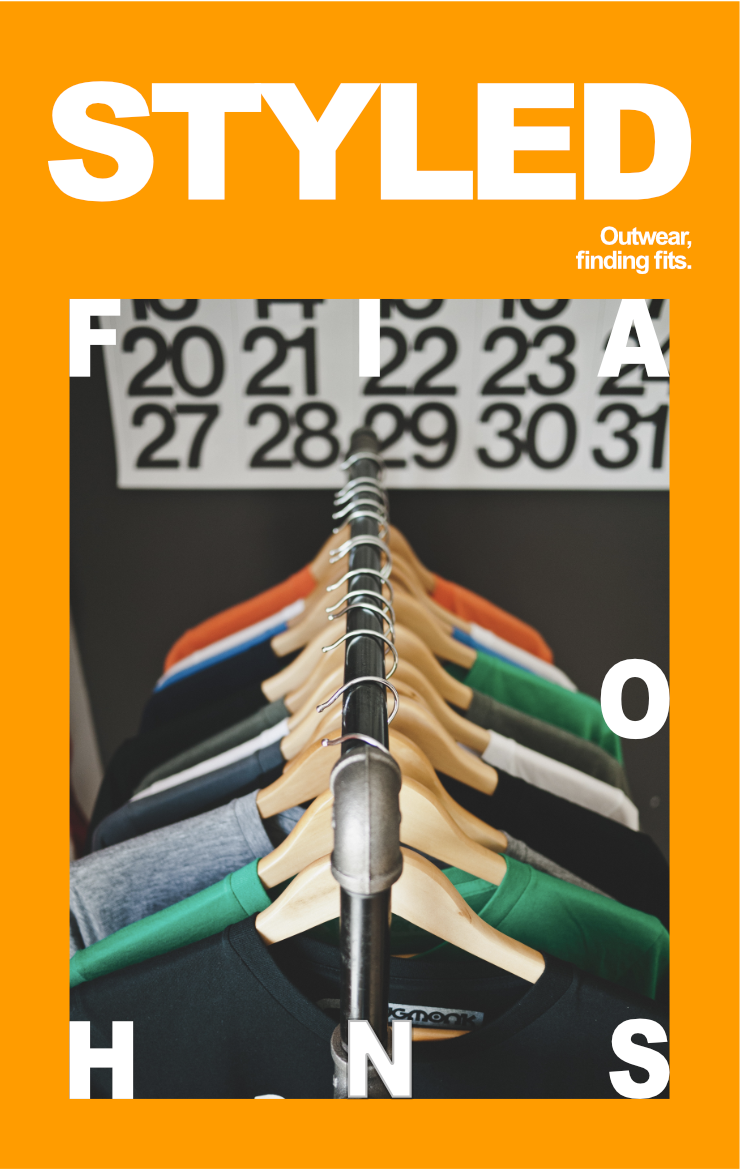
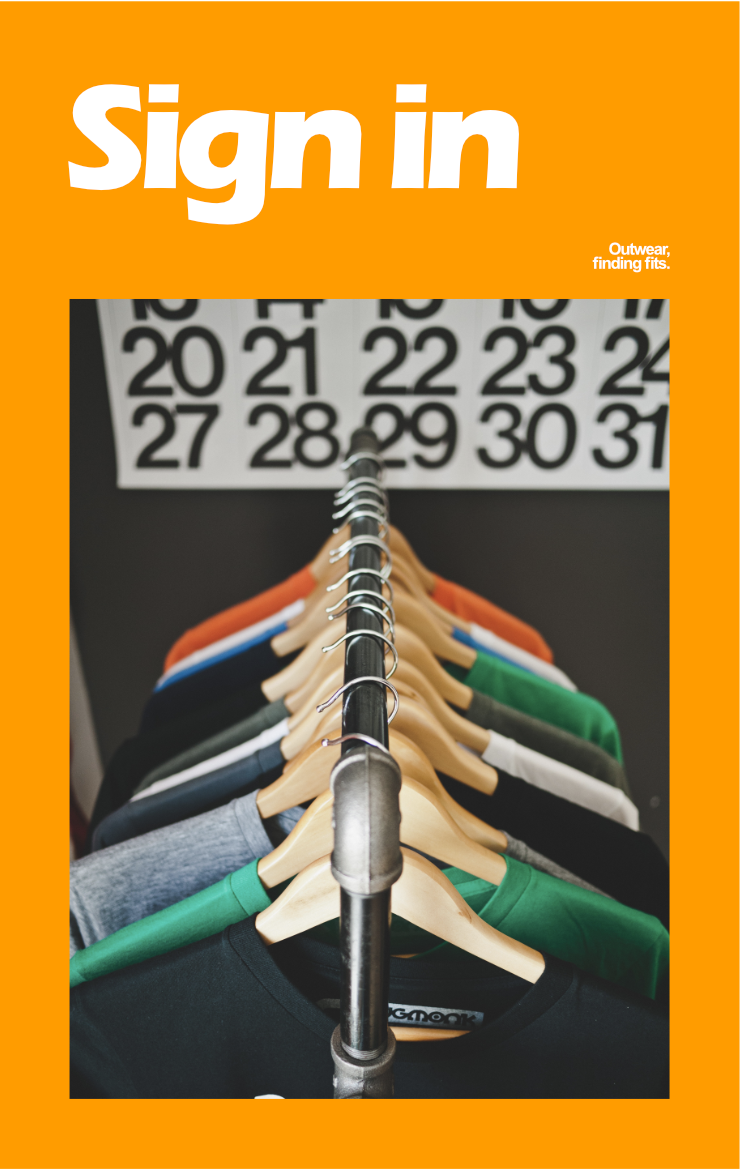
navigation - 6 [login modal]

diff --git a/src/app/modals/login-dialog/login-dialog.component.scss b/src/app/modals/login-dialog/login-dialog.component.scss
@@ -1,0 +1,73 @@
+// Mobile
+@media only screen and (min-width: 320px) {}
+// Tablet 
+@media only screen and (min-width: 768px) {}
+// Desktop 
+@media only screen and (min-width: 1024px) {}
+// Desktop XL
+@media only screen and (min-width: 1280px) {}
+
+// Modal form container 
+.form__container {
+    display: inline-flex;
+    align-items: center;
+    width: 100%;
+    height: 100%;
+    position: relative;
+    // Modal form image container
+    .form__image{
+        flex: 1;
+        display: flex;
+        align-items: center;
+        padding-left: 20px;
+        // Modal form image element
+        &__field {
+        width: 200px;
+        }
+    }
+    // Modal form content
+    .form__field {
+        flex: 2;
+        padding: 0 20px;
+        // Form close button 
+        &__close {
+            position: absolute;
+            top: 0;
+            right: 0;
+            border: none;
+            padding: 10px;
+            text-align: right;
+        }
+        // Register text 
+        &__register {
+            font-size: 16px; 
+            margin-bottom: 20px;
+        }
+        // Form content wrapper  
+        .mat-dialog-content {
+            overflow: hidden;
+        }
+        // Form inputs 
+        &__input {
+            width: 100%;
+            display: block;
+        }
+        // Action buttons wrappers
+        &__actions {
+            // Forgotten password button link
+            a {
+                display: inline-flex;
+                align-items: center;
+                flex: 1;
+                padding: 0;
+            }
+            // Action buttons 
+            button {
+                border: none;
+                background-color: $color-bright; 
+                color: $color-white; 
+                padding: 10px 30px;
+            }
+        }
+    }
+}

diff --git a/src/app/modals/login-dialog/login-dialog.component.html b/src/app/modals/login-dialog/login-dialog.component.html
@@ -1,3 +1,43 @@
-<p>
-  login-dialog works!
-</p>
+<!-- Login modal-->
+<div class="form__container">
+  <!-- Login modal image -->
+  <div class="form__image">
+    <img class="form__image__field" src="{{ loginModalPath }}">
+  </div>
+  <!-- Login modal form -->
+  <div class="form__field">
+    <mat-dialog-content>
+      <!-- Close modal button -->
+      <button class="form__field__close" (click)="onCloseCancel()" [mat-dialog-close]="true">
+          <i class="material-icons">
+            close
+          </i>
+      </button>
+      <!-- Sign up redirect message/button -->
+      <p class="form__field__register">Don't have an account?
+        <a class="bright" routerLink=""> Sign up.</a>
+      </p>
+      <!-- Username and email input -->
+      <mat-form-field class="form__field__input">
+        <input matInput placeholder="Username or Email">
+      </mat-form-field>
+      <!-- Password input -->
+      <mat-form-field class="form__field__input">
+        <input matInput placeholder="Password" [type]="hide ? 'password' : 'text'">
+        <mat-icon matSuffix (click)="hide = !hide">{{hide ? 'visibility' : 'visibility_off'}}</mat-icon>
+      </mat-form-field>
+    </mat-dialog-content>
+    <!-- Action buttons -->
+    <mat-dialog-actions class="form__field__actions">
+      <!-- Forgotten password -->
+      <!-- [INCOMPLETE]: Create forgotten password page -->
+      <a class="bright" routerLink="">Forgot your passwrod?</a>
+      <!-- Submit button  -->
+      <!-- [INCOMPLETE]: oncloseConfirm function to login user in -->
+      <button (click)="onCloseConfirm()" mat-dialog-close>Sign In</button>
+    </mat-dialog-actions>
+    <!-- End of action button -->
+  </div>
+  <!-- End of login form -->
+</div>
+<!-- End of login modal-->

diff --git a/src/app/app.module.ts b/src/app/app.module.ts
@@ -32,10 +32,11 @@ import { BrandsCatgComponent } from './brands-catg/brands-catg.component';
 import { PremiumCatgComponent } from './premium-catg/premium-catg.component';
 
 import { UserService } from './service/user.service';
+import { SearchNavComponent } from './search-nav/search-nav.component';
 
 
 @NgModule({
-  declarations: [AppComponent, routingComponents, HomeComponent, RegisterDialogComponent, UserComponent, UserListComponent, RegisterComponent, NavigationComponent, SlidertextComponent, WishlistComponent, HandbagComponent, MenCatgComponent, NewinCatComponent, SalesCatgComponent, WomenCatgComponent, BoysCatgComponent, GirlsCatgComponent, CollectionCatgComponent, ShoesCatgComponent, AccessoriesCatgComponent, InspireCatgComponent, SportsCatgComponent, BrandsCatgComponent, PremiumCatgComponent, LoginComponent, LoginDialogComponent ],
+  declarations: [AppComponent, routingComponents, HomeComponent, RegisterDialogComponent, UserComponent, UserListComponent, RegisterComponent, NavigationComponent, SlidertextComponent, WishlistComponent, HandbagComponent, MenCatgComponent, NewinCatComponent, SalesCatgComponent, WomenCatgComponent, BoysCatgComponent, GirlsCatgComponent, CollectionCatgComponent, ShoesCatgComponent, AccessoriesCatgComponent, InspireCatgComponent, SportsCatgComponent, BrandsCatgComponent, PremiumCatgComponent, LoginComponent, LoginDialogComponent, SearchNavComponent ],
   imports: [BrowserModule, AppRoutingModule, MaterialsModule, BrowserAnimationsModule, FormsModule, ReactiveFormsModule],
   exports: [FormsModule, ReactiveFormsModule],
   providers: [UserService, UserListComponent],

diff --git a/src/app/navigation/navigation.component.html b/src/app/navigation/navigation.component.html
@@ -24,19 +24,13 @@
       <!-- Login/ Register authentication form button-->
       <app-login></app-login>
       <!-- Wishlist -->
-      <a routerLink="wishlist"><i class="material-icons">favorite_border</i></a>
+      <button class="navbar-btm__bar"routerLink="wishlist">
+        <i class="material-icons">favorite_border</i>
+      </button>
       <!-- Handbag -->
       <app-handbag></app-handbag>
       <!-- Search input-->
-      <i class="material-icons">search</i>
-    <!-- <form class="navbar-top__input">
-          <mat-form-field class="example-full-width">
-            <input matInput placeholder="Search">
-            <i class="material-icons" matSuffix>
-              search
-            </i>
-          </mat-form-field>
-        </form> -->
+      <app-search-nav></app-search-nav>
       <!-- Help: Customer care -->
       <a class="navbar-top__routes--help" routerLink="/help" routerLinkActive="active">
         <p class="navbar-top__routes--text">customer care</p>

diff --git a/src/app/modals/login-dialog/login-dialog.component.ts b/src/app/modals/login-dialog/login-dialog.component.ts
@@ -5,15 +5,22 @@ import { UserData } from "../../login/login.component";
 @Component({
   selector: 'app-login-dialog',
   templateUrl: './login-dialog.component.html',
-  styleUrls: ['./login-dialog.component.scss']
+  // styleUrls: ['./login-dialog.component.scss']
 })
 export class LoginDialogComponent implements OnInit {
+
+  loginModalPath: string = '/assets/images/availon_poster.png';
+  hide = true;
 
   constructor(public dialogRef: MatDialogRef<LoginDialogComponent>,
     @Inject(MAT_DIALOG_DATA) public data: UserData) { }
 
-    onNoClick(): void {
+    onCloseCancel(): void {
       this.dialogRef.close();
+    }
+
+    onCloseConfirm(): void {
+      
     }
 
   ngOnInit() {

diff --git a/src/app/search-nav/search-nav.component.spec.ts b/src/app/search-nav/search-nav.component.spec.ts
@@ -1,0 +1,25 @@
+import { async, ComponentFixture, TestBed } from '@angular/core/testing';
+
+import { SearchNavComponent } from './search-nav.component';
+
+describe('SearchNavComponent', () => {
+  let component: SearchNavComponent;
+  let fixture: ComponentFixture<SearchNavComponent>;
+
+  beforeEach(async(() => {
+    TestBed.configureTestingModule({
+      declarations: [ SearchNavComponent ]
+    })
+    .compileComponents();
+  }));
+
+  beforeEach(() => {
+    fixture = TestBed.createComponent(SearchNavComponent);
+    component = fixture.componentInstance;
+    fixture.detectChanges();
+  });
+
+  it('should create', () => {
+    expect(component).toBeTruthy();
+  });
+});

diff --git a/src/app/search-nav/search-nav.component.html b/src/app/search-nav/search-nav.component.html
@@ -1,0 +1,13 @@
+<button class="navbar-btm__bar" [matMenuTriggerFor]="menu">
+    <i class="material-icons">search</i>
+</button>
+<mat-menu #menu="matMenu" [overlapTrigger]="false">
+<form class="navbar-top__input">
+      <mat-form-field class="example-full-width">
+        <input matInput placeholder="Search">
+        <i class="material-icons" matSuffix>
+          search
+        </i>
+      </mat-form-field>
+    </form>
+</mat-menu>

diff --git a/src/app/search-nav/search-nav.component.ts b/src/app/search-nav/search-nav.component.ts
@@ -1,0 +1,15 @@
+import { Component, OnInit } from '@angular/core';
+
+@Component({
+  selector: 'app-search-nav',
+  templateUrl: './search-nav.component.html',
+  styleUrls: ['./search-nav.component.scss']
+})
+export class SearchNavComponent implements OnInit {
+
+  constructor() { }
+
+  ngOnInit() {
+  }
+
+}

diff --git a/src/app/app.component.scss b/src/app/app.component.scss
@@ -1,0 +1,8 @@
+// Mobile
+@media only screen and (min-width: 320px) {}
+// Tablet 
+@media only screen and (min-width: 768px) {}
+// Desktop 
+@media only screen and (min-width: 1024px) {}
+// Desktop XL
+@media only screen and (min-width: 1280px) {}

diff --git a/src/styles.scss b/src/styles.scss
@@ -23,6 +23,8 @@
 @import "app/navigation/navigation.component.scss";
 @import "app/slidertext/slidertext.component.scss";
 
+// Modals
+@import "app/modals/login-dialog/login-dialog.component.scss";
 
 // Styles
 html, body {

diff --git a/src/app/login/login.component.html b/src/app/login/login.component.html
@@ -1,3 +1,3 @@
-<a mat-icon-button (click)="openDialog()">
+<button class="navbar-btm__bar" (click)="openDialog()">
     <i class="material-icons">person_outline</i>
-  </a>
+</button>
